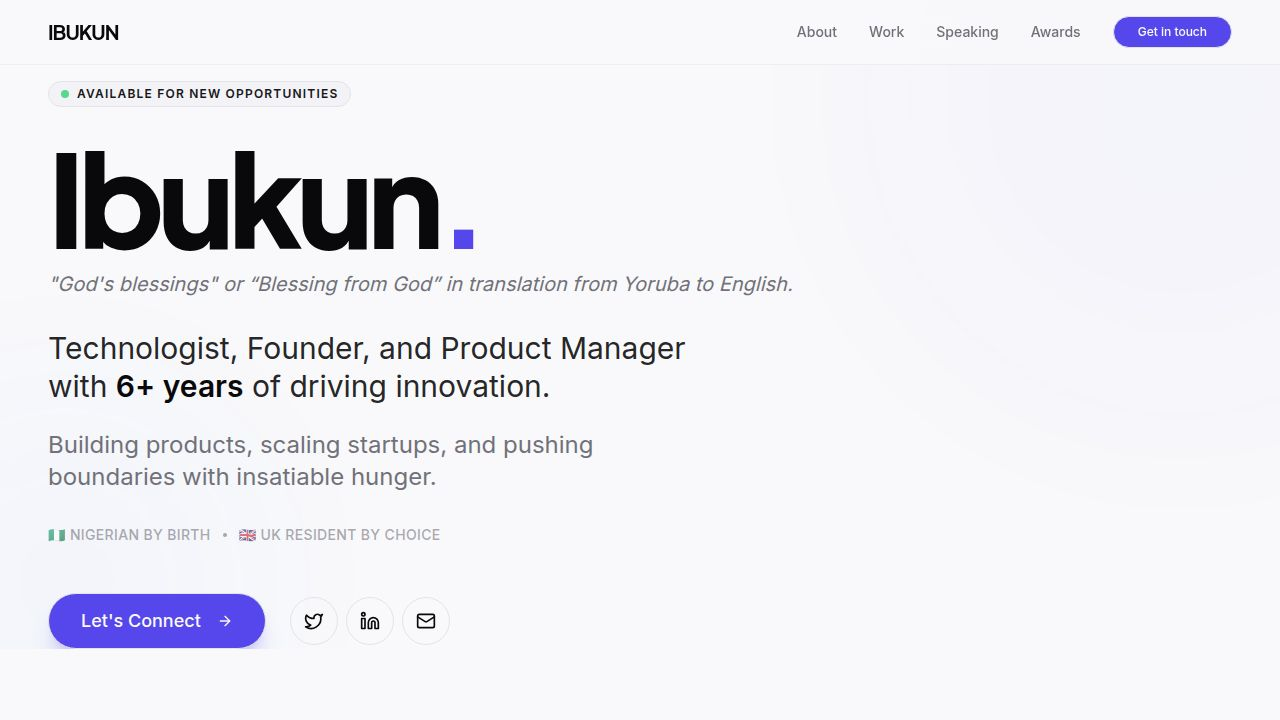
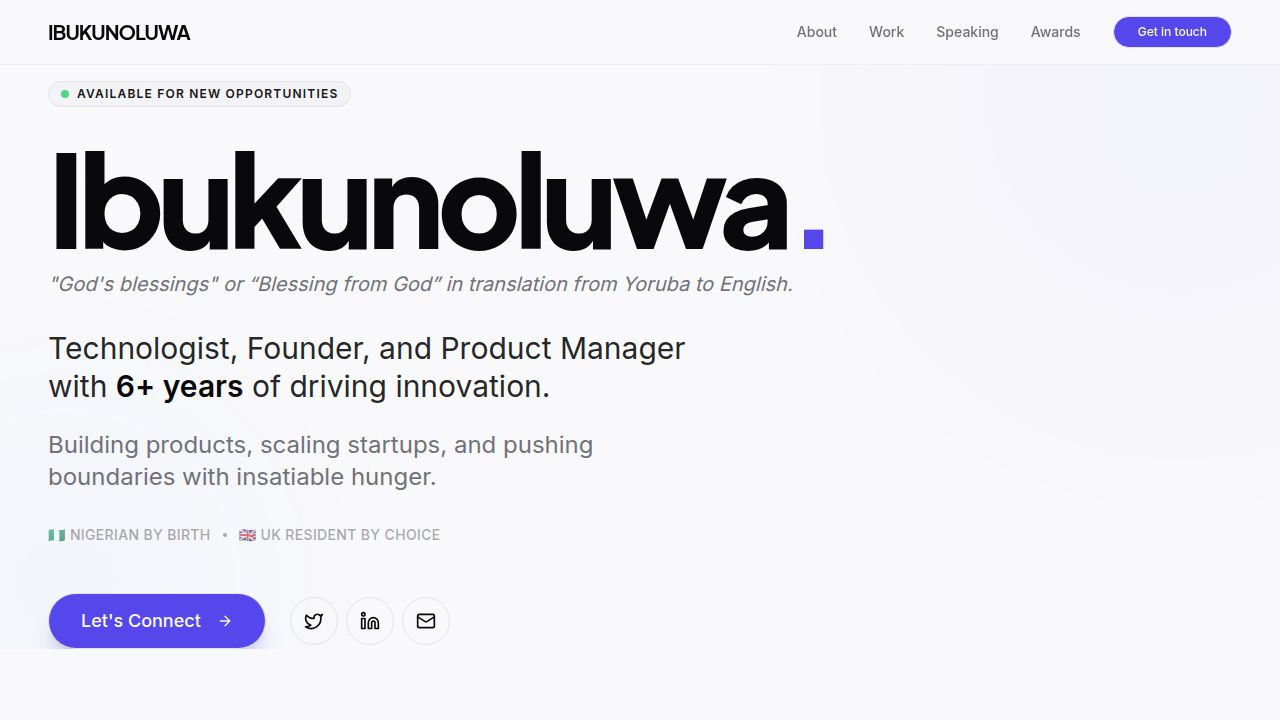
Update name displayed on website and in navigation menu
Update the hero section and navigation bar to reflect the full name "Ibukunoluwa".

Replit-Commit-Author: Agent
Replit-Commit-Session-Id: b2f2c51c-0e6c-4430-97e9-13dbe244bcd4
Replit-Commit-Checkpoint-Type: full_checkpoint
Replit-Commit-Event-Id: 89bc26ce-7700-49f8-b5a7-3677c0abb3a0
Replit-Commit-Screenshot-Url: https://storage.googleapis.com/screenshot-production-us-central1/964bb60f-ace3-4c36-bc35-44fc9a2babbc/b2f2c51c-0e6c-4430-97e9-13dbe244bcd4/yUziAES
Replit-Helium-Checkpoint-Created: true

Changed region(s): [[0.3438, 0.2139, 0.6562, 0.3667], [0.0938, 0.0306, 0.1562, 0.0611]]

diff --git a/client/src/components/hero.tsx b/client/src/components/hero.tsx
@@ -29,7 +29,7 @@ export default function Hero() {
 
             {/* Name/Headline */}
             <h1 className="text-7xl md:text-9xl font-display font-black tracking-tighter mb-4 leading-[0.9]">
-              Ibukun<span className="text-primary">.</span>
+              Ibukunoluwa<span className="text-primary">.</span>
             </h1>
 
             <p className="text-lg md:text-xl text-muted-foreground font-light mb-8 italic">

diff --git a/client/src/components/nav.tsx b/client/src/components/nav.tsx
@@ -20,7 +20,7 @@ export default function Nav() {
       <div className="container mx-auto px-8 md:px-12 h-16 flex items-center justify-between">
         <Link href="/">
           <a className="text-xl font-display font-bold tracking-tighter hover:opacity-80 transition-opacity">
-            IBUKUN
+            IBUKUNOLUWA
           </a>
         </Link>
 
